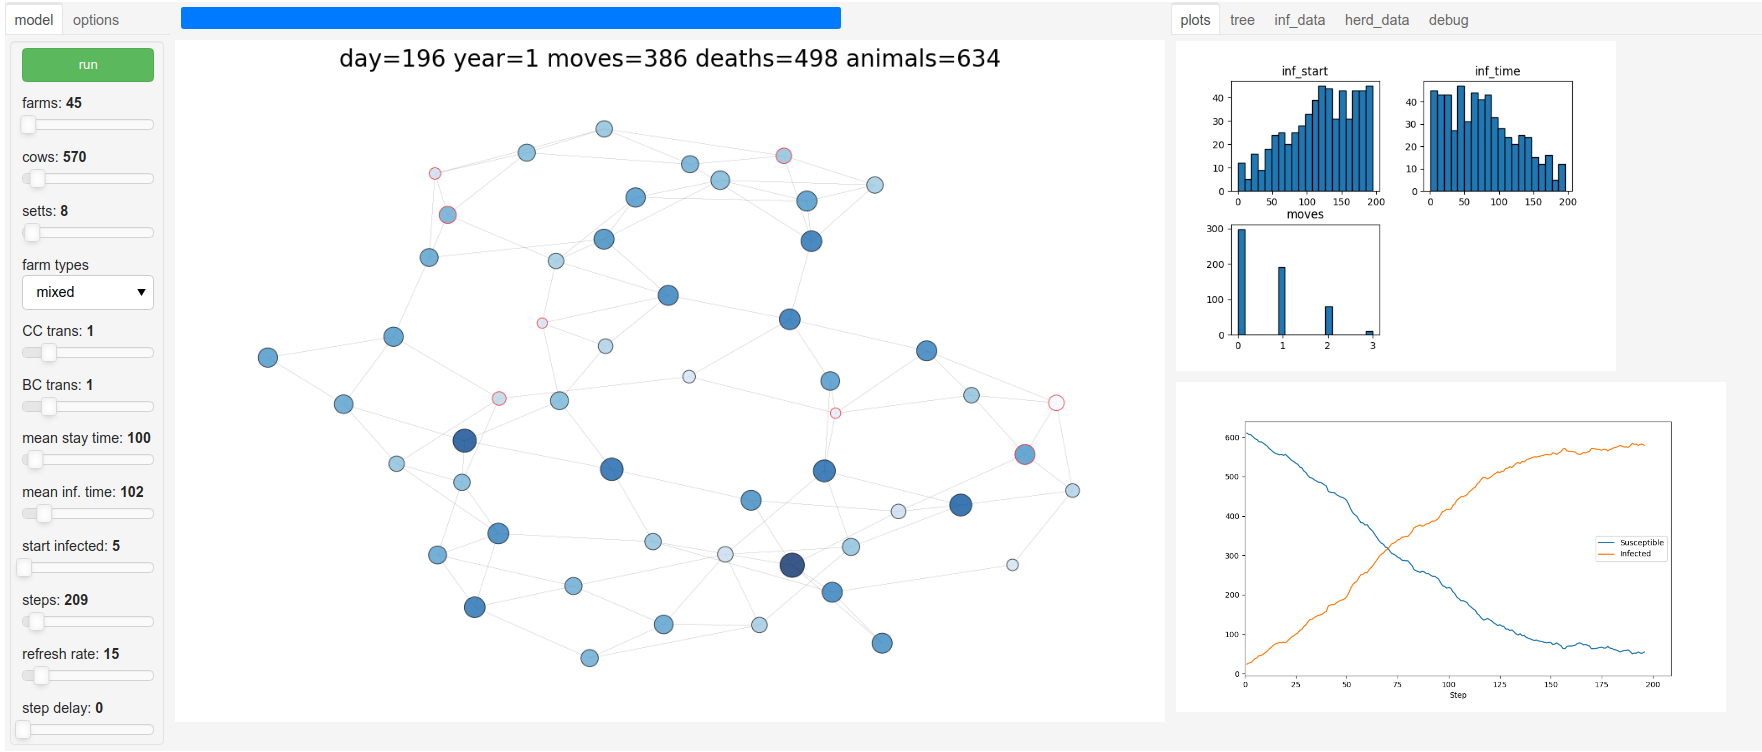
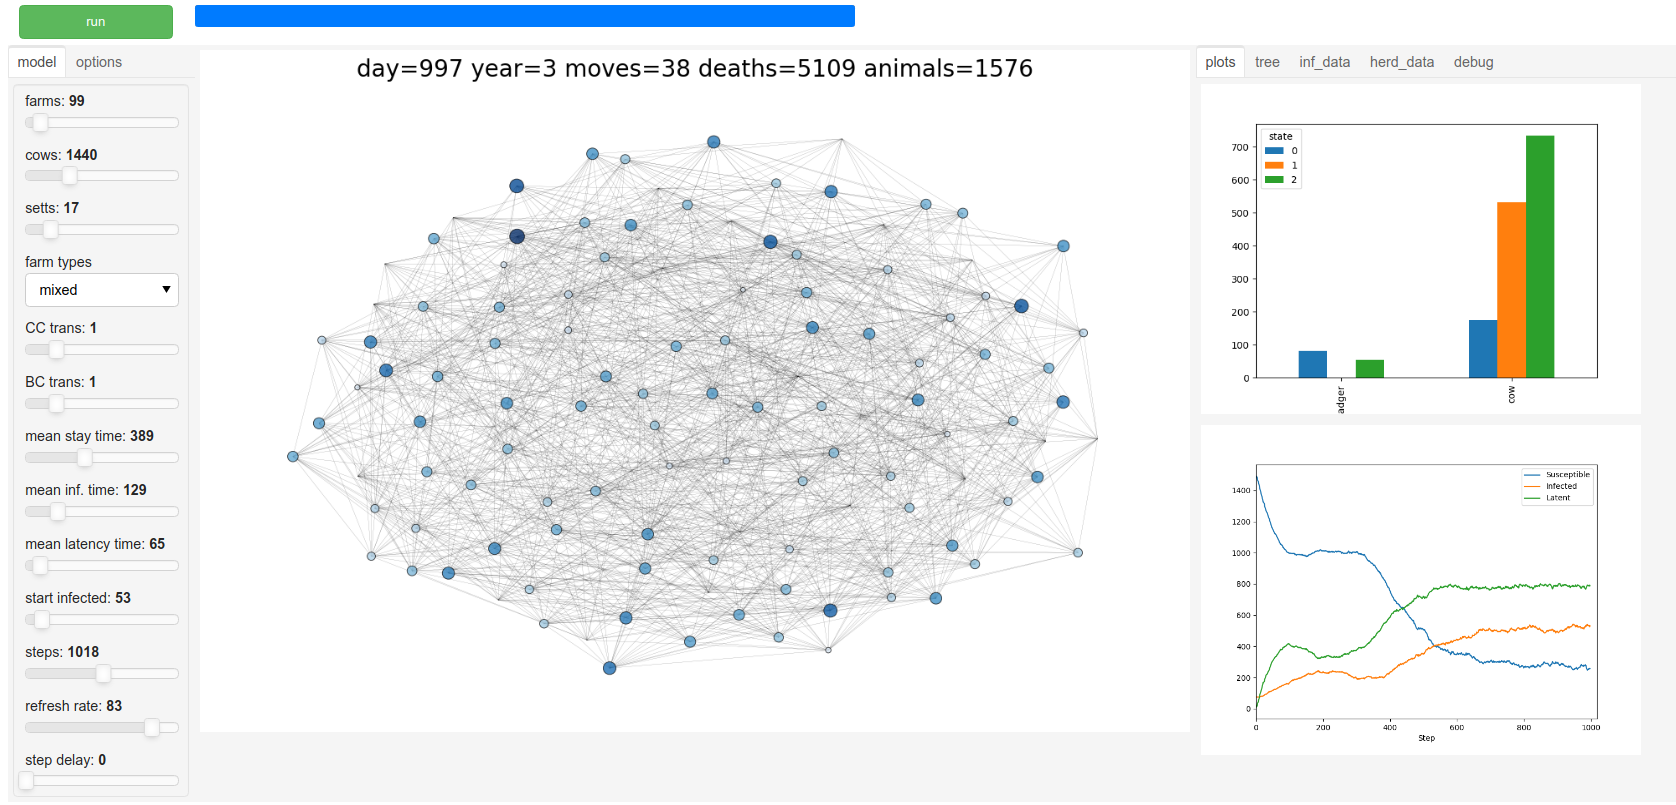
latent state

diff --git a/btbabm/models.py b/btbabm/models.py
@@ -44,8 +44,8 @@ HERD_CLASSES = ['beef','dairy','beef suckler','fattening']
 class State(enum.IntEnum):
     SUSCEPTIBLE = 0
     INFECTED = 1
-    REMOVED = 2
-    IMMUNE = 3
+    LATENT = 2
+    REMOVED = 3
 
 class Strain:
     def __init__(self, name, sequence):
@@ -151,10 +151,7 @@ class Animal(object):
     def __init__(self, unique_id, model):
         self.unique_id = unique_id
         self.location = None
-        if random.choice(range(20)) == 1:
-            self.state = State.IMMUNE
-        else:
-            self.state = State.SUSCEPTIBLE
+        self.state = State.SUSCEPTIBLE
         self.strain = None
         self.infection_start = 0
         self.age = 1
@@ -166,7 +163,7 @@ class Animal(object):
         """Infect the animal with some probability"""
 
         if random.uniform(0, 1) < ptrans:
-            self.state = State.INFECTED
+            self.state = State.LATENT
             #strain may mutate upon transmission
             self.strain = strain.copy()
             strain.mutate()
@@ -182,6 +179,7 @@ class Badger(Animal):
         self.species = 'badger'
         self.time_last_move = 0
         self.death_age = abs(int(random.normalvariate(8*365,1000)))
+        self.latency_period = abs(int(random.normalvariate(300,100)))
         self.time_to_death = abs(int(random.normalvariate(model.mean_inf_time,100)))
         self.moves = []
 
@@ -238,12 +236,8 @@ class Badger(Animal):
         if self.state == State.INFECTED or self.age>self.death_age:
             t = self.model.schedule.time-self.infection_start
             if t >= self.time_to_death:
-                curr = self.location
-                current_sett = self.model.get_node(curr)
-                self.state = State.REMOVED
-                self.model.schedule.remove(self)
-                current_sett.animals.remove(self)
-                self.model.deaths +=1
+                self.model.remove_animal(self)
+                current_sett = self.model.get_node(self.location)
                 self.model.add_badger(sett=current_sett)
 
     def __repr__(self):
@@ -257,10 +251,12 @@ class Cow(Animal):
         self.species = 'cow'
         #stay time at current farm, updated when moved
         self.stay_time = abs(int(random.normalvariate(model.mean_stay_time,100)))
-        #time after infection to death
-        self.time_to_death = abs(int(random.normalvariate(model.mean_inf_time,100)))
         #natural age
         self.death_age = abs(int(random.normalvariate(4*365,1000)))
+        #time after infection to death
+        self.time_to_death = abs(int(random.normalvariate(model.mean_inf_time,100)))
+        #latency period when not infectious
+        self.latency_period = abs(int(random.normalvariate(model.mean_latency_time,100)))
         #time spent at current farm
         self.time_at_farm = 0
         self.moves = []
@@ -286,6 +282,7 @@ class Cow(Animal):
             for animal in farm.get_infected():
                 if animal.state == State.INFECTED:
                     self.infect(animal.strain, self.model.cctrans)
+
         self.infection_status()
         return
 
@@ -317,16 +314,13 @@ class Cow(Animal):
     def infection_status(self):
         """Check infection status and remove animal if dead."""
 
+        if self.state == State.SUSCEPTIBLE:
+            return
+        t = self.model.schedule.time-self.infection_start
         if self.state == State.INFECTED:
-            t = self.model.schedule.time-self.infection_start
             if t >= self.time_to_death or self.age>self.death_age:
-                curr = self.location
-                current_farm = self.model.get_node(curr)
-                self.state = State.REMOVED
-                self.model.schedule.remove(self)
-                current_farm.animals.remove(self)
-                self.model.deaths +=1
-
+                self.model.remove_animal(self)
+                current_farm = self.model.get_node(self.location)
                 #replace the animal in the population
                 if len(current_farm.animals)<2:
                     self.model.add_animal(farm=current_farm)
@@ -334,6 +328,9 @@ class Cow(Animal):
                     new_farm = random.choice(self.model.get_farms())
                     #print (current_farm,new_farm,model.farms[new_farm.unique_id])
                     self.model.add_animal(farm=new_farm)
+        elif self.state == State.LATENT:
+            if t >= self.latency_period:
+                self.state = State.INFECTED
         return
 
     def __repr__(self):
@@ -341,8 +338,9 @@ class Cow(Animal):
 
 
 class FarmPathogenModel(Model):
-    def __init__(self, F, C, S, mean_stay_time=100, mean_inf_time=60, cctrans=0.01, bctrans=0.001,
-                 infected_start=5, seq_length=100,
+    def __init__(self, F, C, S, mean_stay_time=100, mean_inf_time=60, mean_latency_time=100,
+                 cctrans=0.01, bctrans=0.001,
+                 infected_start=5, seq_length=100, #cull_rate=None,
                  graph_type='custom', graph_seed=None, callback=None):
 
         self.num_farms = F
@@ -352,6 +350,7 @@ class FarmPathogenModel(Model):
 
         self.mean_stay_time = mean_stay_time
         self.mean_inf_time = mean_inf_time
+        self.mean_latency_time = mean_latency_time
         self.cctrans = cctrans
         self.bctrans = bctrans
         self.max_herd_size = 100
@@ -377,8 +376,10 @@ class FarmPathogenModel(Model):
             self.G = nx.barabasi_albert_graph(n=total, m=3, seed=graph_seed)
         elif graph_type == 'watts_strogatz':
             self.G = nx.watts_strogatz_graph(n=total, k=4, p=0.1, seed=graph_seed)
+        elif graph_type == 'powerlaw_cluster':
+            self.G = nx.powerlaw_cluster_graph(n=total, m=3, p=0.5, seed=graph_seed)
         elif graph_type == 'random_geometric':
-            self.G = nx.random_geometric_graph(total, 0.125, seed=graph_seed)
+            self.G = nx.random_geometric_graph(n=total, p=0.2, seed=graph_seed)
         elif 'custom':
             self.G = utils.create_closest_n_graph(total,3)
         self.grid = NetworkGrid(self.G)
@@ -444,19 +445,10 @@ class FarmPathogenModel(Model):
         return [i for i in x if type(i) is Farm]
 
     def get_setts(self):
+        """Get setts"""
+
         x=self.grid.get_all_cell_contents()
         return [i for i in x if type(i) is Sett]
-
-    '''def get_farms(self):
-        """Get farms in graph"""
-
-        f = [self.get_node(n) for n in self.G.nodes]
-        return [i for i in f if type(i) == Farm]
-
-    def get_setts(self):
-
-        f = [self.get_node(n) for n in self.G.nodes]
-        return [i for i in f if type(i) == Sett]'''
 
     def add_animal(self, uid=None, farm=None):
         """Add cow. If no farm given, add randomly"""
@@ -475,6 +467,7 @@ class FarmPathogenModel(Model):
         return animal
 
     def add_badger(self, uid=None, sett=None):
+        """Add badger"""
 
         if uid==None:
             uid = self.agents_added+1
@@ -490,6 +483,16 @@ class FarmPathogenModel(Model):
         self.schedule.add(animal)
         self.agents_added += 1
         return animal
+
+    def remove_animal(self, animal):
+        """Remove from model"""
+
+        loc = self.get_node(animal.location)
+        animal.state = State.REMOVED
+        self.schedule.remove(animal)
+        loc.animals.remove(animal)
+        self.deaths +=1
+        return
 
     def get_animals(self, infected=False):
         """Get all animals into a list"""
@@ -520,7 +523,7 @@ class FarmPathogenModel(Model):
 
         agent_state = self.datacollector.get_agent_vars_dataframe()
         X = pd.pivot_table(agent_state.reset_index(),index='Step',columns='State',aggfunc=np.size,fill_value=0)
-        labels = ['Susceptible','Infected','Immune']
+        labels = ['Susceptible','Infected','Latent']
         X.columns = labels[:len(X.columns)]
         return X
 

diff --git a/btbabm/utils.py b/btbabm/utils.py
@@ -21,6 +21,10 @@ from Bio import SeqIO, AlignIO
 import json
 import toytree
 
+strain_names = string.ascii_letters[:10].upper()
+strain_cmap = ({c:random_color(seed=1) for c in strain_names})
+strain_cmap[None] = 'gray'
+
 def random_sequence(length=50):
     seq=''
     for count in range(length):
@@ -96,7 +100,7 @@ def plot_grid(model,ax,colorby='loc_type', ns='herd_size', cmap='Blues', title='
         cmap=None
     elif colorby == 'strain':
         states = [n.main_strain() for n in model.grid.get_all_cell_contents()]
-        colormap = strain_map
+        node_colors = [strain_cmap[n] for n in states]
     elif colorby == 'herd_size':
         node_colors = [len(n) for n in model.grid.get_all_cell_contents()]
     elif colorby == 'num_infected':

diff --git a/README.md b/README.md
@@ -10,6 +10,7 @@ Times are given in days since each step is a day.
 
 * mean_stay_time - mean time in a herd
 * mean_inf_time - mean infection time
+* mean_latency_time - mean latency time when not infectious
 * cctrans - cow-cow transmission prob
 * bctrans - badger-cow transmission prob
 * infected_start - how many cows to infect at start
@@ -18,11 +19,30 @@ Times are given in days since each step is a day.
 * seq_length - sequence length for simulating strains/mutations
 * herd_class - type of herd
 
+## Usage
+
+In Python you can run the model as follows:
+
+```python
+from btbabm import models
+from btbabm import utils
+model = models.FarmPathogenModel(F=30,C=800,S=10,mean_inf_time=20,mean_stay_time=150,
+                       cctrans=0.01,seq_length=100,graph_type='barabasi_albert')
+for s in range(100):
+  model.step()
+
+#get data for infected animals
+df = model.get_infected_data()
+#plot the grid
+fig,ax=plt.subplots(1,1,figsize=(10,6))
+utils.plot_grid(model,with_labels=True,ns='perc_infected',ax=ax)
+```
+
 ## Dashboard
 
 There is a panel dashboard for experimenting with model. It can be run by executing the `dashboard.py` file.
 
-<img align="left" src=img/dash_scr.png width=600px>
+<img src=img/dash_scr.png width=600px>
 
 ## Refs
 
